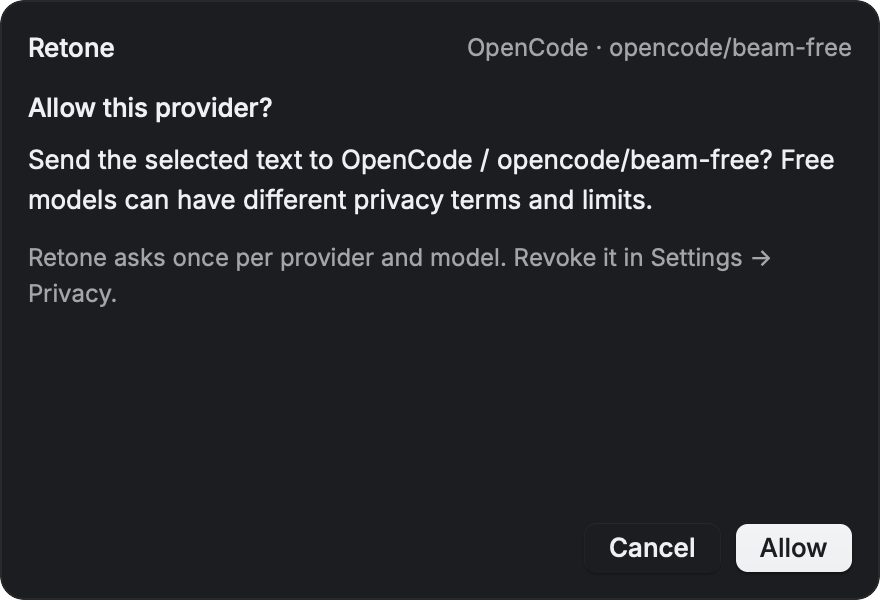
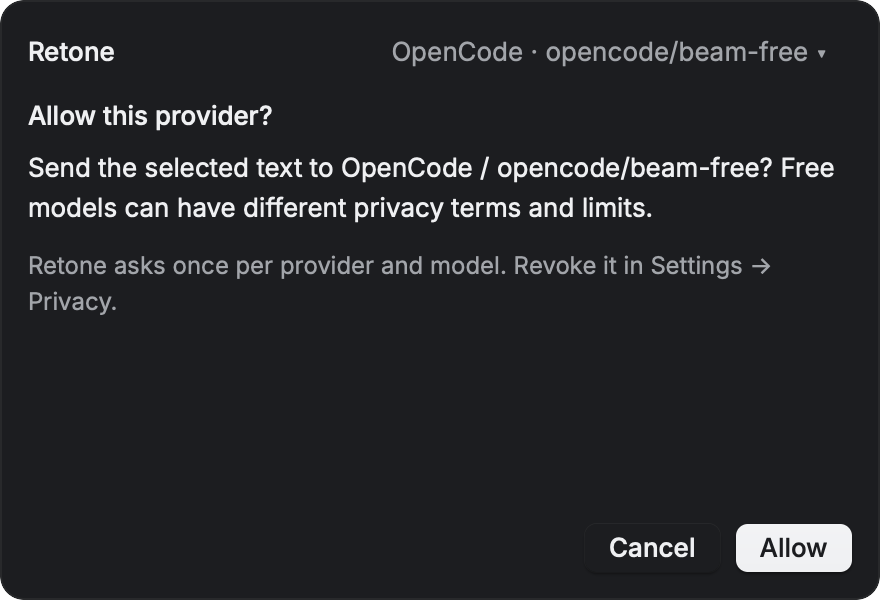
docs(readme): replace screenshots with current renders
Add the streaming preview, More styles, provider picker, error hints and
three Settings pages, all rendered with --snap from beta.17.

Amp-Thread-ID: https://ampcode.com/threads/T-01a221d2-6e49-73cc-b22d-366b2bf5a3aa

diff --git a/README.md b/README.md
@@ -60,13 +60,36 @@ Good writing tools often live in one app, or send your text to a cloud you did n
 
 ## Screenshots
 
+**Popup**: the preview streams in, press 6 for **More** styles, click the provider label (or ⌘P) to switch model. First use of a provider asks for consent.
+
 <div align="center">
-  <img src="docs/screenshots/tldr-example.png" alt="TL;DR of a long selection: a title line, the main point, key takeaways and a closing line" width="440"/>
+  <img src="docs/screenshots/streaming-example.png" alt="The rewrite streams in; Copy and Replace turn on when it is complete" width="380"/>
+  <img src="docs/screenshots/more-example.png" alt="More: the other styles and your own" width="380"/>
   <br/>
+  <img src="docs/screenshots/provider-picker.png" alt="Provider picker: local models and a Pi model" width="380"/>
   <img src="docs/screenshots/consent-example.png" alt="First-use consent for a provider" width="380"/>
-  <img src="docs/screenshots/no-permission-example.png" alt="Clipboard mode without Accessibility" width="380"/>
   <br/>
-  <img src="docs/screenshots/settings-provider-local.png" alt="Settings: local provider" width="520"/>
+  <img src="docs/screenshots/tldr-example.png" alt="TL;DR of a long selection: a title line, the main point, key takeaways and a closing line" width="380"/>
+</div>
+
+**Errors say how to fix them**, with buttons for the next step.
+
+<div align="center">
+  <img src="docs/screenshots/error-unreachable-example.png" alt="Error hint: cannot reach the local server, with Open Settings, Switch model and Retry" width="380"/>
+  <img src="docs/screenshots/error-setup-example.png" alt="Error hint: an unverified CLI version, with Switch model, Retry and Open Settings" width="380"/>
+  <br/>
+  <img src="docs/screenshots/dropped-example.png" alt="An answer far longer than the text is dropped; only Copy is offered" width="380"/>
+  <img src="docs/screenshots/no-permission-example.png" alt="Clipboard mode without Accessibility" width="380"/>
+</div>
+
+**Settings**: General, Provider and Styles.
+
+<div align="center">
+  <img src="docs/screenshots/settings-general.png" alt="Settings: General, with the shortcut, theme, Accessibility and right-click menu rows" width="520"/>
+  <br/>
+  <img src="docs/screenshots/settings-provider-local.png" alt="Settings: local provider with address, API key and models" width="520"/>
+  <br/>
+  <img src="docs/screenshots/settings-styles.png" alt="Settings: Styles, with the custom style and one shortcut per style" width="520"/>
 </div>
 
 ## Installation
